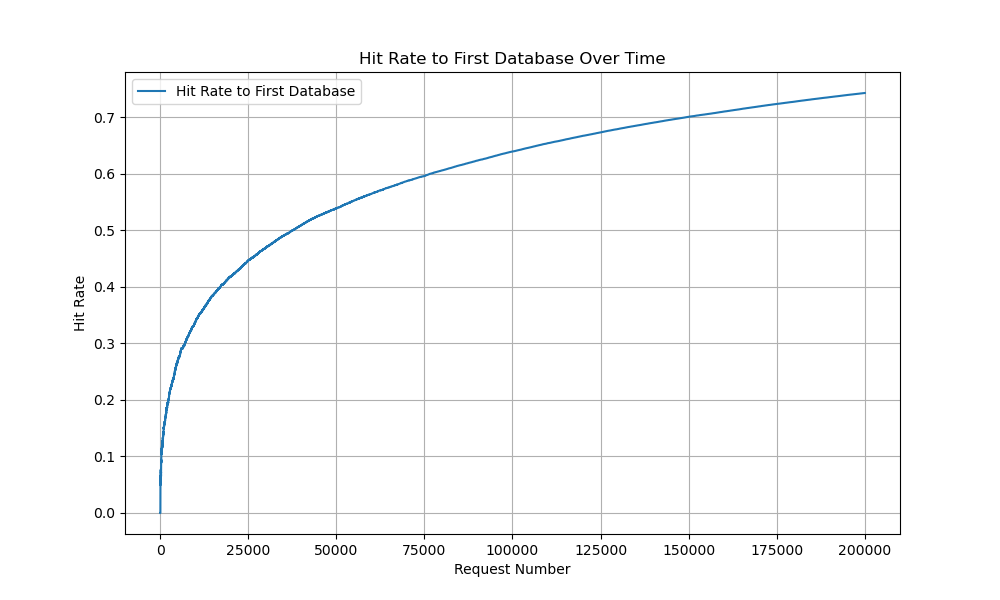
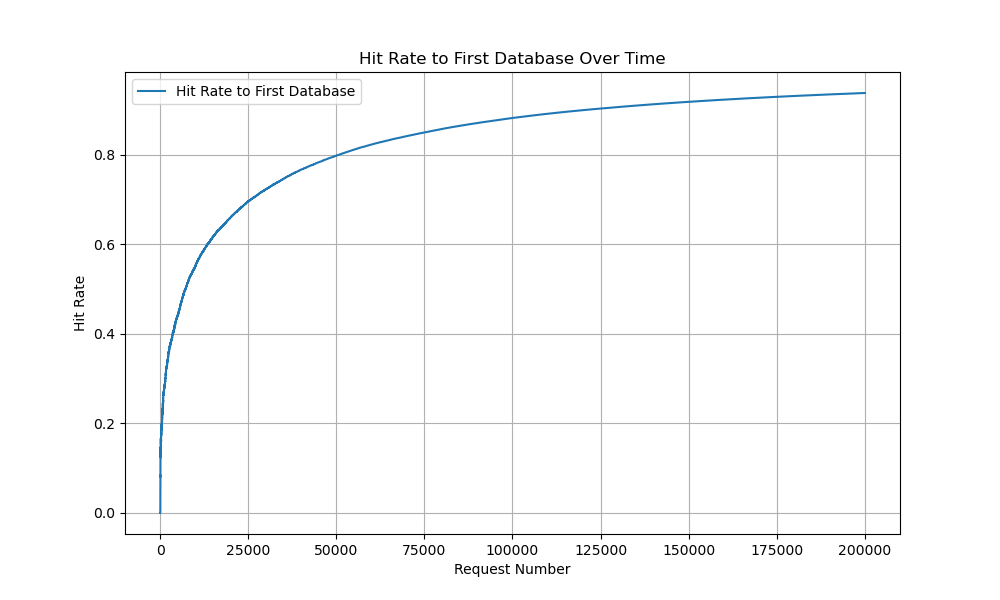
Add files via upload

diff --git a/DemoPython/calc_llamadas.py b/DemoPython/calc_llamadas.py
@@ -1,0 +1,34 @@
+import numpy as np
+
+# Parameters
+N = 12400  # Number of unique values
+calls_per_second = 100  # Number of calls per second
+alpha = 1.2  # Zipf distribution parameter (adjustable based on the data)
+
+# Step 1: Generate Zipf-distributed values
+# Zipf distribution generates ranks based on popularity q(i) ~ 1 / i^alpha
+probabilities = np.random.zipf(alpha, size=N)
+
+# Normalize the probabilities to ensure they sum to 1
+probabilities = np.array([1 / (i ** alpha) for i in range(1, N + 1)])
+probabilities /= np.sum(probabilities)  # Normalize
+
+# Step 2: Simulate the requests
+def simulate_requests(probabilities, calls_per_second, N):
+    requested_values = set()  # Track unique values requested
+    total_calls = 0           # Count total calls made
+    while len(requested_values) < N:
+        # Simulate a second of calls
+        calls = np.random.choice(np.arange(1, N+1), p=probabilities, size=calls_per_second)
+        requested_values.update(calls)  # Add the new requests to the set
+        total_calls += calls_per_second
+    return total_calls
+
+# Run the simulation
+total_calls_needed = simulate_requests(probabilities, calls_per_second, N)
+
+# Step 3: Output the results
+time_needed = total_calls_needed / calls_per_second  # In seconds
+print(f"Total calls needed to request all {N} values: {total_calls_needed}")
+print(f"Time needed (in seconds): {time_needed:.2f}")
+print(f"Time needed (in minutes): {time_needed / 60:.2f}")

diff --git a/DemoPython/postgresql.py b/DemoPython/postgresql.py
@@ -17,17 +17,21 @@ def generate_random_string(length):
 
 # Function to generate random data for each record 1.1 KB
 def generate_record(record_id):
-    name = generate_random_string(500)  # Random string of length 500
-    value = generate_random_string(500) # Random string of length 500
-    return (record_id, name, value)
+    name = generate_random_string(1500)  # Random string of length 500
+    value1 = generate_random_string(1500) # Random string of length 500
+    value2 = generate_random_string(1500) # Random string of length 500
+    value3 = generate_random_string(1500) # Random string of length 500
+    value4 = generate_random_string(500) # Random string of length 500
+    value5 = generate_random_string(500) # Random string of length 500
+    return (record_id, name, value1, value2, value3, value4, value5)
 
 # Function to insert data into PostgreSQL
 def insert_data_to_postgres(num_records):
     with conn.cursor() as cur:
-        for record_id in range(900001, 900001 + num_records):
+        for record_id in range(1, 1 + num_records):
             record = generate_record(record_id)
             print(record_id)
-            cur.execute("INSERT INTO test.tesis (id, name, value) VALUES (%s, %s, %s)", record)
+            cur.execute("INSERT INTO test.tesis (id, name, value1, value2, value3, value4, value5) VALUES (%s, %s, %s, %s, %s, %s, %s)", record)
         conn.commit()
 
 

diff --git a/DemoPython/app.py b/DemoPython/app.py
@@ -31,7 +31,7 @@ def get_data_from_postgres(query):
 def setRedis(key, data):
     # cambiar TTL
     # redis_client.setex(key, 300, json.dumps(data))
-    redis_client.hset(key, mapping={"data": data[1],"value": data[2]})
+    redis_client.hset(key, mapping={"name": data[1],"value1": data[2],"value2": data[3],"value3": data[4],"value4": data[5],"value5": data[6]})
 
 # Actualizar el tiempo de expiración 
 def updateTTL(key):
@@ -54,11 +54,11 @@ def get_data(key):
         return jsonify({"source": 0, "id": key, "data": cached_data})
     
     # If not found in Redis, fetch from PostgreSQL
-    query = f"SELECT id, name, value FROM test.tesis WHERE id = {key}"
+    query = f"SELECT id, name, value1, value2, value3, value4, value5 FROM test.tesis WHERE id = {key}"
     result = get_data_from_postgres(query)
     
     if result:
-        data = {"name": result[1], "value": result[2]}
+        data = {"name": result[1], "value1": result[2],"value2": result[3],"value3": result[4],"value4": result[5],"value5": result[6]}
         # Agregar al cache
         setRedis(key, result)
         #updateTTL(key)

diff --git a/DemoPython/client.py b/DemoPython/client.py
@@ -34,7 +34,8 @@ def request_data(key):
 
     except Exception as e:
         print(f"Failed to retrieve data: {e}")
-        return 4
+        return {"source": -1, "id": 0, "data": 0}
+    
 
 # Function to make 500 random requests and store the results
 def make_requests_and_export_to_csv(num_requests, data_id_range, filename):
@@ -123,7 +124,7 @@ def graficar_hitrates(N, s, sample_size):
     plt.show()
 
 def llenar_cache():
-    for key in range(100000):
+    for key in range(15000):
         start_time = time.time()
         data = request_data(key)
         end_time = time.time()
@@ -133,7 +134,7 @@ def llenar_cache():
 # Main function to initiate the process
 if __name__ == "__main__":
 
-    N = 76_000       # Maximum value (large N)
+    N = 12_400       # Maximum value (large N)
     s = 0.8           # Exponent parameter (s < 1)
     sample_size = 200_000  # Very large sample size
     #llenar_cache()

diff --git a/DemoPython/tc_newton.py b/DemoPython/tc_newton.py
@@ -2,8 +2,8 @@ import numpy as np
 from scipy.optimize import newton
 
 # Parameters
-N = 76_000  # Number of objects
-C = 76_000    # Cache size 90%
+N = 12_400  # Number of objects
+C = 12_400    # Cache size 90%
 alpha = 0.8    # Zipf distribution parameter
 
 # Step 1: Generate the Zipf distribution for q(i)
